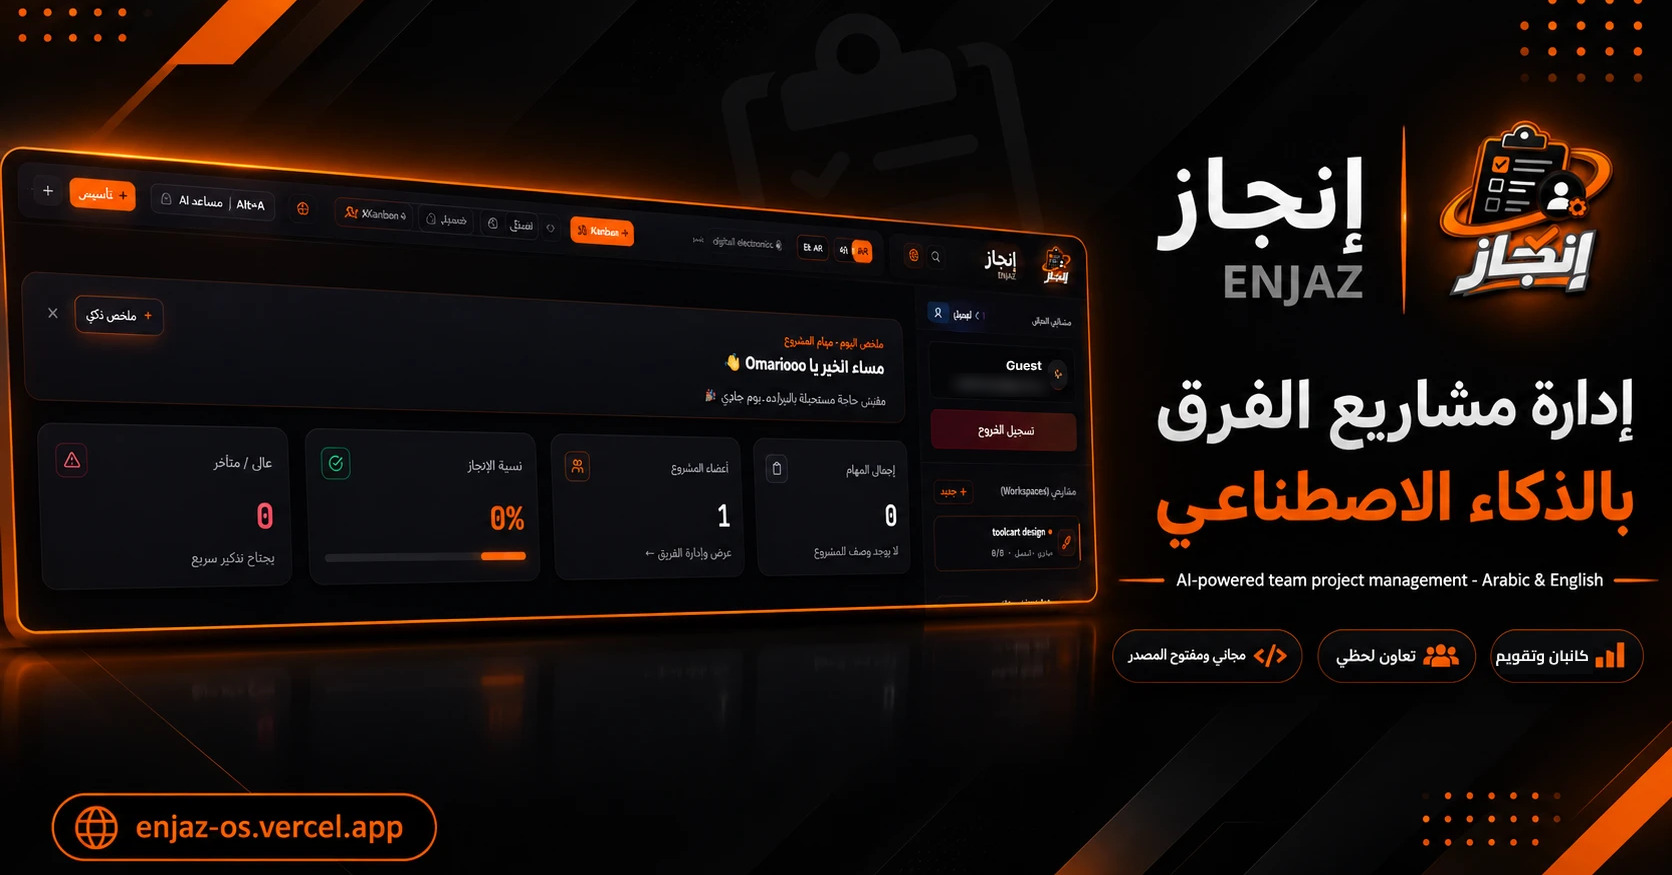
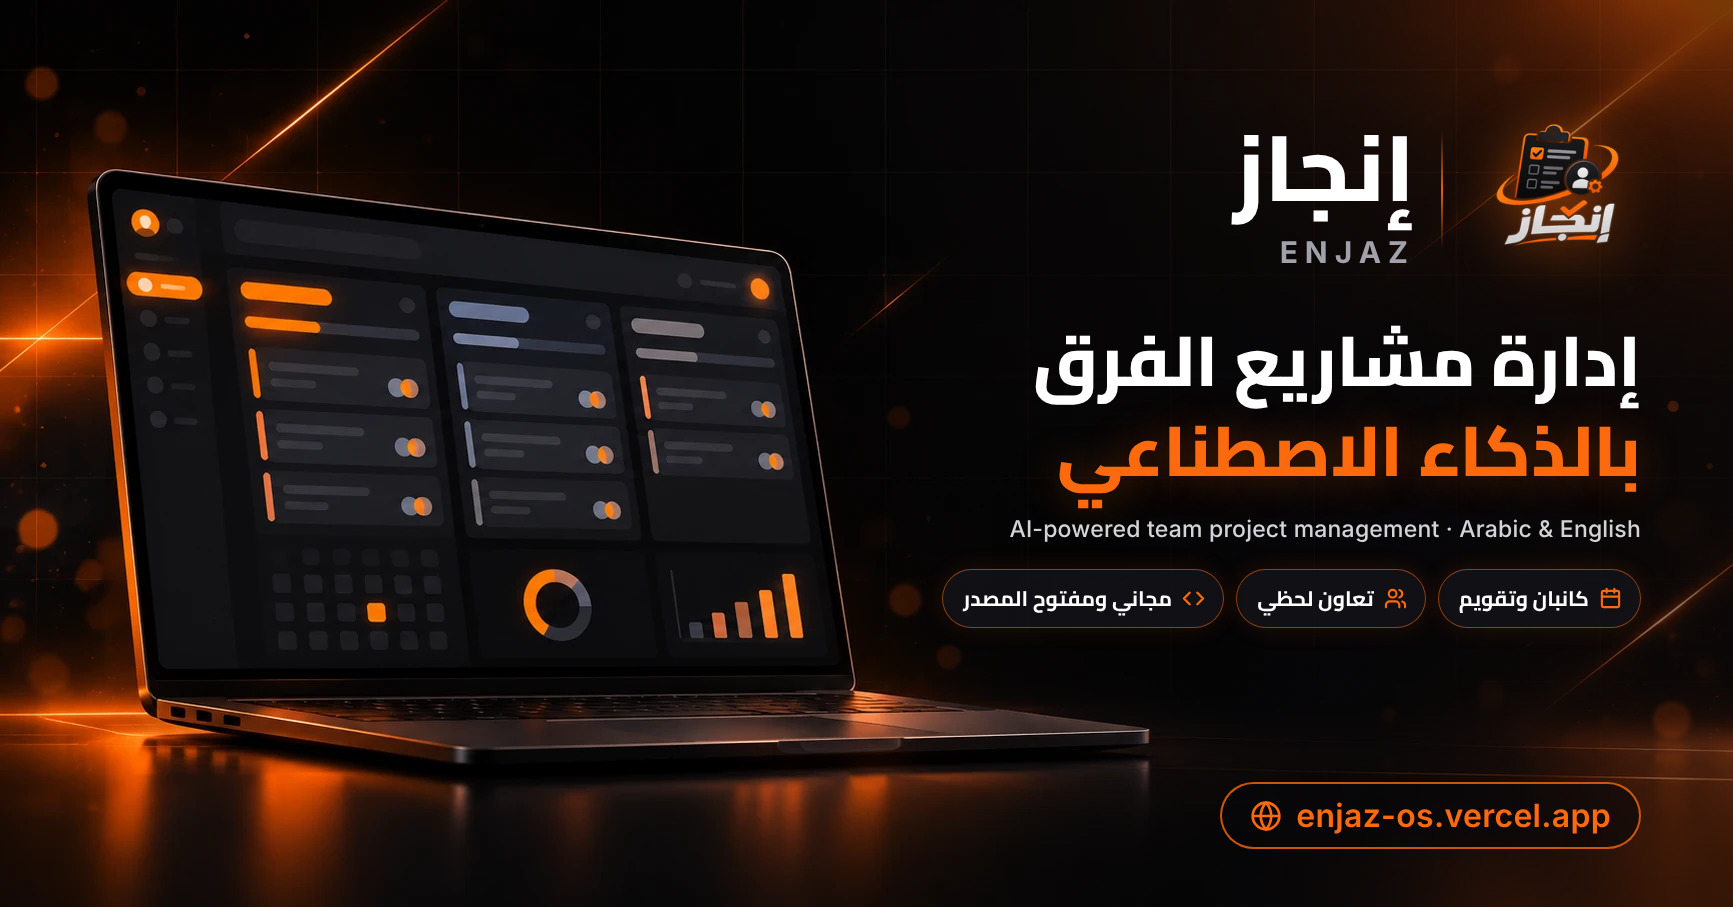
Rebuild the share image on the new background with real text
The previous banner was AI-generated, including its text, which came out
garbled. Compose the share image instead from the new AI background
(laptop with an abstract dashboard, no text) and set every word with the
real fonts: the original transparent Enjaz logo, "إنجاز / ENJAZ",
the title in Cairo ("إدارة مشاريع الفرق" white, "بالذكاء الاصطناعي"
orange), an Inter subtitle, the three feature chips with icons and the
site URL. Text stays clear of the laptop.

Native 1733x907 (1.91:1, no crop or resampling), JPEG q92 without
chroma subsampling (245 KB). og:image size and alt text updated.

Claude-Session: https://claude.ai/code/session_01BAujvwZDLGWE2NbixFMnd8

diff --git a/index.html b/index.html
@@ -28,9 +28,9 @@
   <meta property="og:title" content="إنجاز Enjaz | إدارة مشاريع الفرق بالذكاء الاصطناعي — مجاني وبالعربي" />
   <meta property="og:description" content="إنجاز (Enjaz) تطبيق مجاني ومفتوح المصدر لإدارة مشاريع الفرق بالعربي والإنجليزي: لوحة كانبان وتقويم، تعاون لحظي وتعليقات، ومساعد ذكاء اصطناعي يقسّم المهام." />
   <meta property="og:image" content="https://enjaz-os.vercel.app/assets/og-image.jpg" />
-  <meta property="og:image:width" content="1672" />
-  <meta property="og:image:height" content="875" />
-  <meta property="og:image:alt" content="إنجاز Enjaz — إدارة مشاريع الفرق بالذكاء الاصطناعي، مع لقطة من لوحة التطبيق" />
+  <meta property="og:image:width" content="1733" />
+  <meta property="og:image:height" content="907" />
+  <meta property="og:image:alt" content="إنجاز Enjaz — إدارة مشاريع الفرق بالذكاء الاصطناعي" />
   <meta property="og:locale" content="ar_AR" />
   <meta property="og:locale:alternate" content="en_US" />
   <meta name="twitter:card" content="summary_large_image" />

diff --git a/enjaz.html b/enjaz.html
@@ -24,8 +24,8 @@
   <meta property="og:title" content="إنجاز — مساحة عمل الفريق" />
   <meta property="og:description" content="انضم لمشروع الفريق على إنجاز: مهام، تقويم، تعليقات، ومساعد ذكاء اصطناعي." />
   <meta property="og:image" content="https://enjaz-os.vercel.app/assets/og-image.jpg" />
-  <meta property="og:image:width" content="1672" />
-  <meta property="og:image:height" content="875" />
+  <meta property="og:image:width" content="1733" />
+  <meta property="og:image:height" content="907" />
   <meta name="twitter:card" content="summary_large_image" />
   <meta name="twitter:image" content="https://enjaz-os.vercel.app/assets/og-image.jpg" />
   <link rel="icon" href="/favicon.ico" sizes="48x48" />
